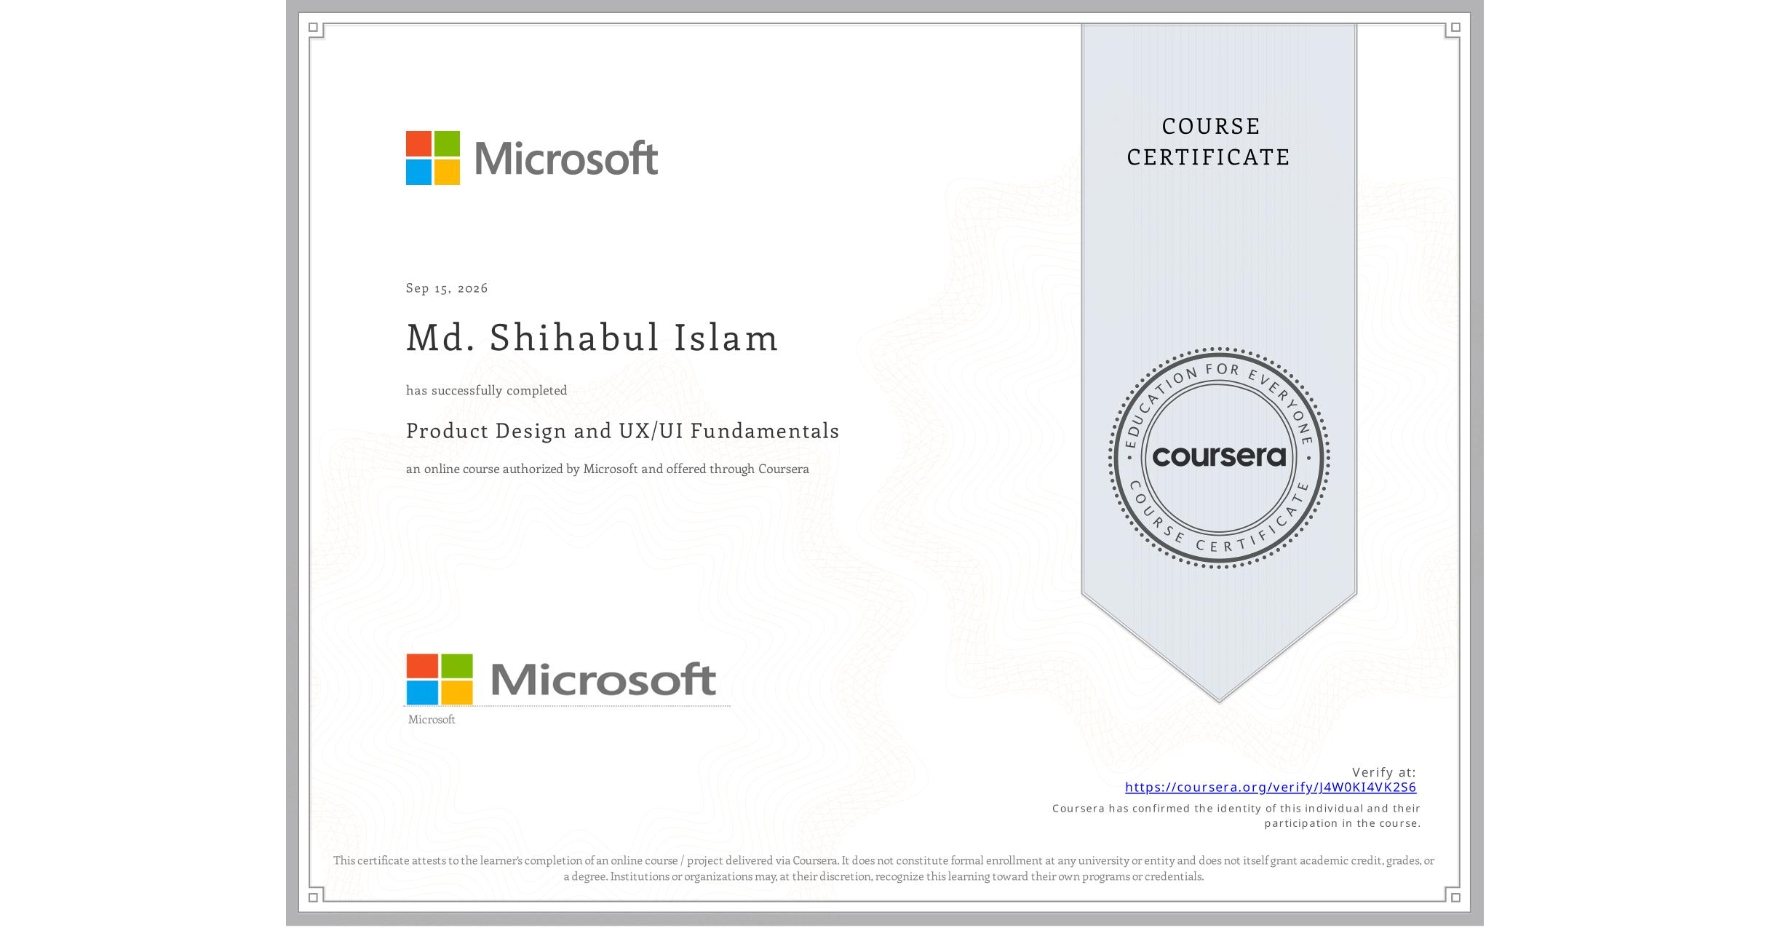
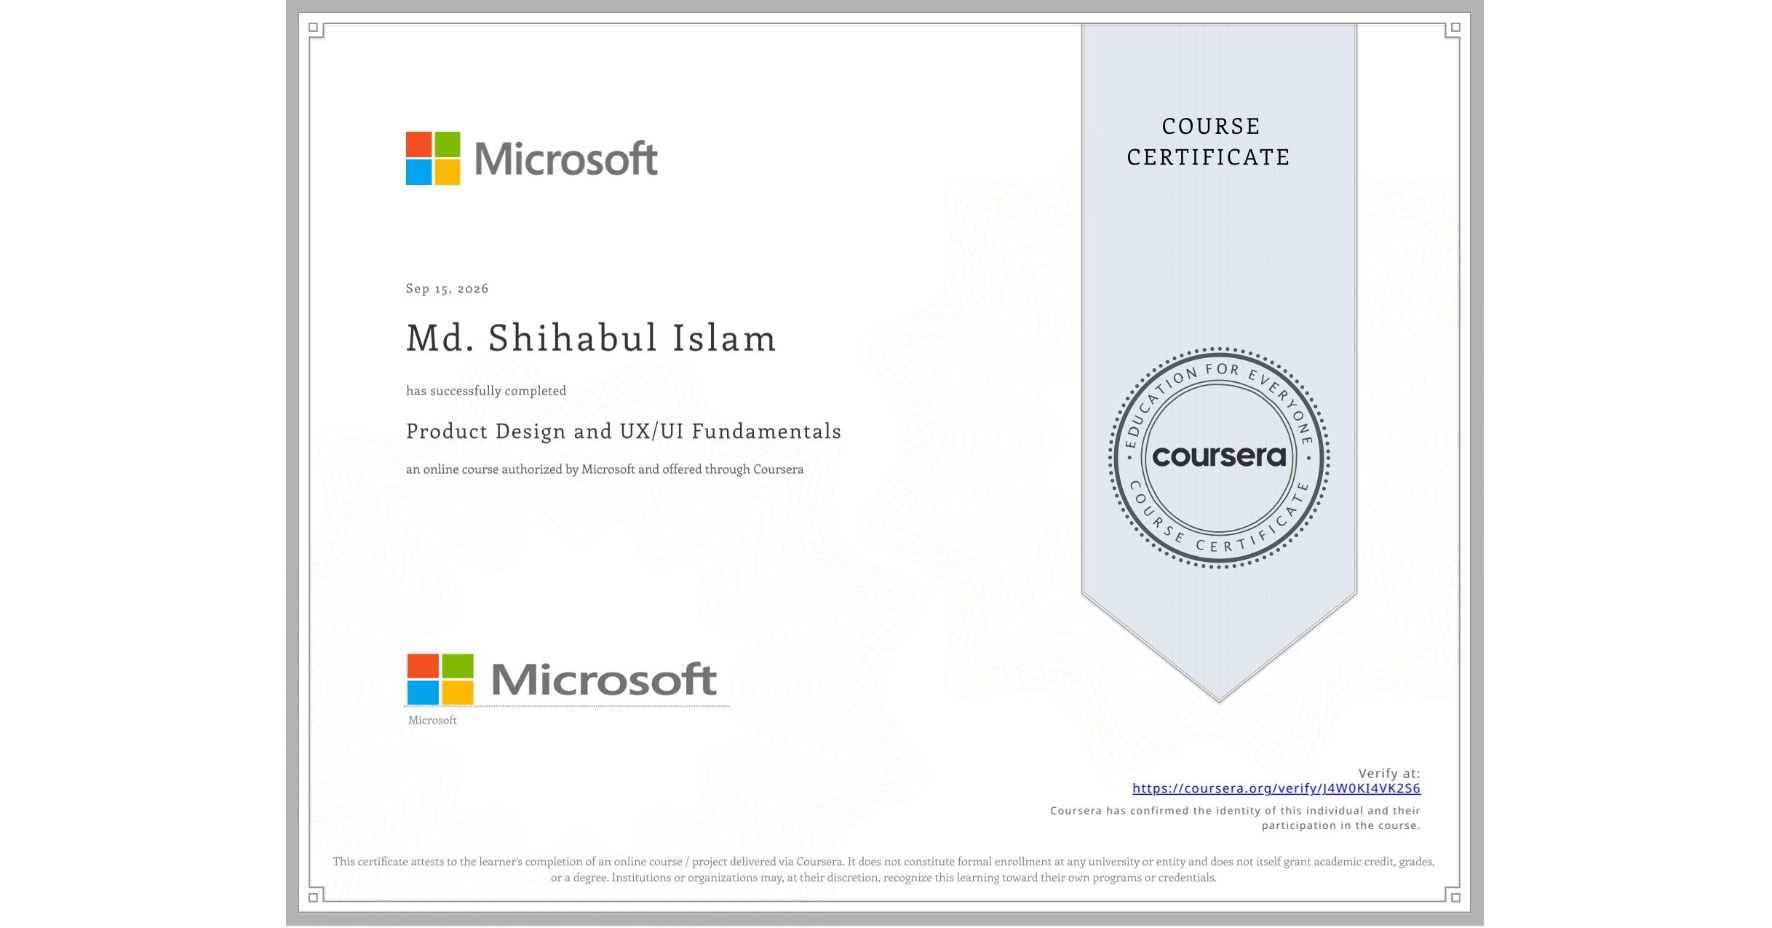
fix(certifications): display both certificates simultaneously without tabs and fix Microsoft certificate image sharpness

diff --git a/src/app/page.tsx b/src/app/page.tsx
@@ -29,7 +29,6 @@ export default function Home() {
   const [profile, setProfile] = useState<any>(() => getInitialProfile() || {});
   const [skills, setSkills] = useState<any[]>(() => getInitialSkills());
   const [experiences, setExperiences] = useState<any[]>(() => getInitialExperiences());
-  const [activeCertIdx, setActiveCertIdx] = useState(0);
   const [copied, setCopied] = useState(false);
 
   const containerRef = useRef<HTMLElement>(null);
@@ -514,121 +513,114 @@ export default function Home() {
             </Link>
           </div>
 
-          <div className="grid grid-cols-1 lg:grid-cols-12 gap-12 items-center">
-            
-            {/* Left: Bio & Quick Facts */}
-            <div className="lg:col-span-5 space-y-6">
-              <div className="relative w-full max-w-sm aspect-[4/5] mx-auto lg:mx-0 border-4 border-zinc-900 shadow-[12px_12px_0px_0px_rgba(24,24,27,1)] overflow-hidden">
-                <Image 
-                  src="/images/profile.jpg" 
-                  alt="Shihabul Islam" 
-                  fill
-                  sizes="(max-width: 1024px) 100vw, 384px"
-                  className="object-cover"
-                />
-                <div className="absolute bottom-4 left-4 right-4 bg-zinc-900/90 backdrop-blur-md p-3 text-white border border-white/20">
-                  <span className="text-xs font-mono font-bold uppercase tracking-widest block">
-                    Md. Shihabul Islam
-                  </span>
-                  <span className="text-[10px] text-zinc-400 font-bold uppercase tracking-wider">
-                    Senior Product &amp; UX/UI Designer
-                  </span>
-                </div>
+          {/* Bio & Quick Facts Spotlight */}
+          <div className="mb-14 p-8 md:p-10 bg-[#f8f8f5] border-4 border-zinc-900 shadow-[8px_8px_0px_0px_rgba(24,24,27,1)] flex flex-col md:flex-row items-center gap-8 md:gap-12">
+            <div className="relative w-36 h-36 md:w-44 md:h-44 shrink-0 border-4 border-zinc-900 shadow-[6px_6px_0px_0px_rgba(24,24,27,1)] overflow-hidden">
+              <Image 
+                src="/images/profile.jpg" 
+                alt="Shihabul Islam" 
+                fill
+                sizes="176px"
+                className="object-cover"
+                priority
+              />
+            </div>
+            <div className="flex-1 space-y-3 text-center md:text-left">
+              <div className="flex flex-wrap items-center justify-center md:justify-start gap-3">
+                <h3 className="text-2xl md:text-3xl font-black uppercase text-zinc-900">
+                  Md. Shihabul Islam
+                </h3>
+                <span className="px-3 py-1 bg-blue-600 text-white text-xs font-black uppercase tracking-widest">
+                  Senior Product &amp; UX/UI Designer
+                </span>
               </div>
-
-              <p className="text-lg md:text-xl text-zinc-700 font-medium leading-relaxed">
+              <p className="text-base md:text-lg text-zinc-700 font-medium leading-relaxed">
                 {profile.aboutText || "A passionate UX/UI Designer with 2 years of experience developing live projects and robust case studies at a fast-paced agency."}
               </p>
             </div>
+          </div>
 
-            {/* Right: Featured Certificates Showcase */}
-            <div className="lg:col-span-7 bg-[#f8f8f5] border-4 border-zinc-900 shadow-[12px_12px_0px_0px_rgba(24,24,27,1)] p-6 md:p-10 space-y-6">
-              {/* Certificate Switcher Tabs */}
-              <div className="flex flex-wrap items-center justify-between gap-3 border-b-2 border-zinc-300 pb-4">
-                <div className="flex items-center gap-2">
-                  {CERTIFICATES.map((c, idx) => (
-                    <button
-                      key={c.id}
-                      type="button"
-                      onClick={() => setActiveCertIdx(idx)}
-                      className={`px-3.5 py-1.5 text-xs font-black uppercase tracking-wider transition-all border-2 border-zinc-900 shadow-[2px_2px_0px_0px_rgba(24,24,27,1)] cursor-pointer ${
-                        activeCertIdx === idx 
-                          ? `${c.issuerBadgeBg} text-white` 
-                          : "bg-white text-zinc-700 hover:bg-zinc-100"
-                      }`}
-                    >
-                      ❖ {c.issuer} Certified
-                    </button>
-                  ))}
-                </div>
-                <span className="text-xs font-mono font-bold text-zinc-500">
-                  Issued {CERTIFICATES[activeCertIdx].issueDate}
-                </span>
-              </div>
-
-              {/* Certificate Preview Image */}
-              <div className="w-full aspect-[16/10] relative bg-white border-2 border-zinc-900 overflow-hidden shadow-[4px_4px_0px_0px_rgba(24,24,27,1)] group">
-                <Image 
-                  src={CERTIFICATES[activeCertIdx].image} 
-                  alt={`${CERTIFICATES[activeCertIdx].issuer} ${CERTIFICATES[activeCertIdx].title} Certificate`}
-                  fill
-                  sizes="(max-width: 1024px) 100vw, 600px"
-                  className="object-cover group-hover:scale-105 transition-transform duration-500"
-                />
-                <a 
-                  href={CERTIFICATES[activeCertIdx].verifyUrl}
-                  target="_blank"
-                  rel="noopener noreferrer"
-                  className="absolute inset-0 bg-black/40 opacity-0 group-hover:opacity-100 transition-opacity flex items-center justify-center text-white font-black uppercase tracking-widest text-xs gap-2"
-                >
-                  <span>Verify Credential on Coursera ↗</span>
-                </a>
-              </div>
-
-              <div>
-                <div className="flex items-center gap-2 mb-2">
-                  <span className={`px-2.5 py-0.5 ${CERTIFICATES[activeCertIdx].issuerBadgeBg} text-white text-[11px] font-black uppercase tracking-wider`}>
-                    {CERTIFICATES[activeCertIdx].issuer}
-                  </span>
-                  <span className="text-xs font-mono font-bold text-zinc-500">
-                    Coursera Verified
-                  </span>
-                </div>
-                <h3 className="text-2xl md:text-3xl font-black text-zinc-900 uppercase tracking-tight mb-2">
-                  {CERTIFICATES[activeCertIdx].title}
-                </h3>
-                <p className="text-sm md:text-base text-zinc-600 leading-relaxed font-normal">
-                  {CERTIFICATES[activeCertIdx].description}
-                </p>
-
-                {/* Skills tags */}
-                <div className="flex flex-wrap gap-2 pt-3">
-                  {CERTIFICATES[activeCertIdx].skills.map((s) => (
-                    <span 
-                      key={s}
-                      className="px-2.5 py-1 bg-white border border-zinc-300 text-zinc-700 text-xs font-mono font-semibold"
-                    >
-                      #{s}
+          {/* Both Certificates Shown Simultaneously (No Tabs / Taps Required) */}
+          <div className="grid grid-cols-1 lg:grid-cols-2 gap-8">
+            {CERTIFICATES.map((cert) => (
+              <div 
+                key={cert.id}
+                className="bg-[#f8f8f5] border-4 border-zinc-900 shadow-[10px_10px_0px_0px_rgba(24,24,27,1)] hover:shadow-[14px_14px_0px_0px_rgba(37,99,235,1)] transition-all p-6 md:p-8 flex flex-col justify-between space-y-6"
+              >
+                {/* Header: Issuer + Verification Badges */}
+                <div className="flex flex-wrap items-center justify-between gap-3 border-b-2 border-zinc-300 pb-4">
+                  <div className="flex items-center gap-2">
+                    <span className={`px-3 py-1 ${cert.issuerBadgeBg} text-white text-xs font-black uppercase tracking-widest`}>
+                      {cert.issuer}
                     </span>
-                  ))}
+                    <span className="px-3 py-1 bg-white text-zinc-900 text-xs font-bold uppercase tracking-wider border border-zinc-300">
+                      {cert.platform}
+                    </span>
+                  </div>
+                  <span className="text-xs font-mono font-bold text-zinc-500">
+                    Issued {cert.issueDate}
+                  </span>
+                </div>
+
+                {/* High-Resolution Certificate Preview Image (Crisp & Pixel-Perfect) */}
+                <div className="w-full aspect-[1.91/1] relative bg-white border-2 border-zinc-900 overflow-hidden shadow-[4px_4px_0px_0px_rgba(24,24,27,1)] group">
+                  <Image 
+                    src={cert.image} 
+                    alt={`${cert.issuer} ${cert.title} Certificate`}
+                    fill
+                    sizes="(max-width: 1024px) 100vw, 700px"
+                    unoptimized
+                    priority
+                    className="object-contain group-hover:scale-105 transition-transform duration-500"
+                  />
+                  <a 
+                    href={cert.verifyUrl}
+                    target="_blank"
+                    rel="noopener noreferrer"
+                    className="absolute inset-0 bg-black/40 opacity-0 group-hover:opacity-100 transition-opacity flex items-center justify-center text-white font-black uppercase tracking-widest text-xs gap-2"
+                  >
+                    <span>Verify Credential on Coursera ↗</span>
+                  </a>
+                </div>
+
+                {/* Title & Description */}
+                <div className="space-y-3 flex-1">
+                  <h3 className="text-2xl md:text-3xl font-black text-zinc-900 uppercase tracking-tight leading-tight">
+                    {cert.title}
+                  </h3>
+                  <p className="text-sm md:text-base text-zinc-600 leading-relaxed font-normal">
+                    {cert.description}
+                  </p>
+
+                  {/* Skills tags */}
+                  <div className="flex flex-wrap gap-2 pt-2">
+                    {cert.skills.map((s) => (
+                      <span 
+                        key={s}
+                        className="px-2.5 py-1 bg-white border border-zinc-300 text-zinc-700 text-xs font-mono font-semibold"
+                      >
+                        #{s}
+                      </span>
+                    ))}
+                  </div>
+                </div>
+
+                {/* Action Link & ID */}
+                <div className="pt-4 flex flex-wrap gap-4 items-center justify-between border-t-2 border-zinc-200">
+                  <a 
+                    href={cert.verifyUrl}
+                    target="_blank"
+                    rel="noopener noreferrer"
+                    className="inline-flex items-center gap-2 px-6 py-3 bg-zinc-900 text-white font-black text-xs uppercase tracking-widest hover:bg-blue-600 transition-colors shadow-[4px_4px_0px_0px_rgba(37,99,235,1)] border-2 border-zinc-900"
+                  >
+                    <span>Verify Credential on Coursera ↗</span>
+                  </a>
+                  <span className="text-xs font-mono text-zinc-500">
+                    ID: {cert.verificationId}
+                  </span>
                 </div>
               </div>
-
-              <div className="pt-2 flex flex-wrap gap-4 items-center justify-between border-t-2 border-zinc-200">
-                <a 
-                  href={CERTIFICATES[activeCertIdx].verifyUrl}
-                  target="_blank"
-                  rel="noopener noreferrer"
-                  className="inline-flex items-center gap-2 px-6 py-3 bg-zinc-900 text-white font-black text-xs uppercase tracking-widest hover:bg-blue-600 transition-colors shadow-[4px_4px_0px_0px_rgba(37,99,235,1)] border-2 border-zinc-900"
-                >
-                  <span>Verify Credential on Coursera ↗</span>
-                </a>
-                <span className="text-xs font-mono text-zinc-500">
-                  ID: {CERTIFICATES[activeCertIdx].verificationId}
-                </span>
-              </div>
-            </div>
-
+            ))}
           </div>
         </div>
       </section>

diff --git a/src/app/about/page.tsx b/src/app/about/page.tsx
@@ -223,14 +223,15 @@ export default function AboutPage() {
                 href={cert.verifyUrl}
                 target="_blank"
                 rel="noopener noreferrer"
-                className="w-full lg:w-96 aspect-[4/3] relative bg-zinc-100 border-2 border-zinc-900 overflow-hidden shrink-0 shadow-[4px_4px_0px_0px_rgba(24,24,27,1)] group block cursor-pointer"
+                className="w-full lg:w-[420px] aspect-[1.91/1] relative bg-white border-2 border-zinc-900 overflow-hidden shrink-0 shadow-[4px_4px_0px_0px_rgba(24,24,27,1)] group block cursor-pointer"
               >
                 <Image 
                   src={cert.image} 
                   alt={`${cert.issuer} ${cert.title} Certificate`}
                   fill
-                  sizes="(max-width: 1024px) 100vw, 384px"
-                  className="object-cover group-hover:scale-105 transition-transform duration-500"
+                  sizes="(max-width: 1024px) 100vw, 420px"
+                  unoptimized
+                  className="object-contain group-hover:scale-105 transition-transform duration-500"
                   priority
                 />
                 <div className="absolute inset-0 bg-black/40 opacity-0 group-hover:opacity-100 transition-opacity flex items-center justify-center text-white font-black uppercase tracking-widest text-xs gap-2">
